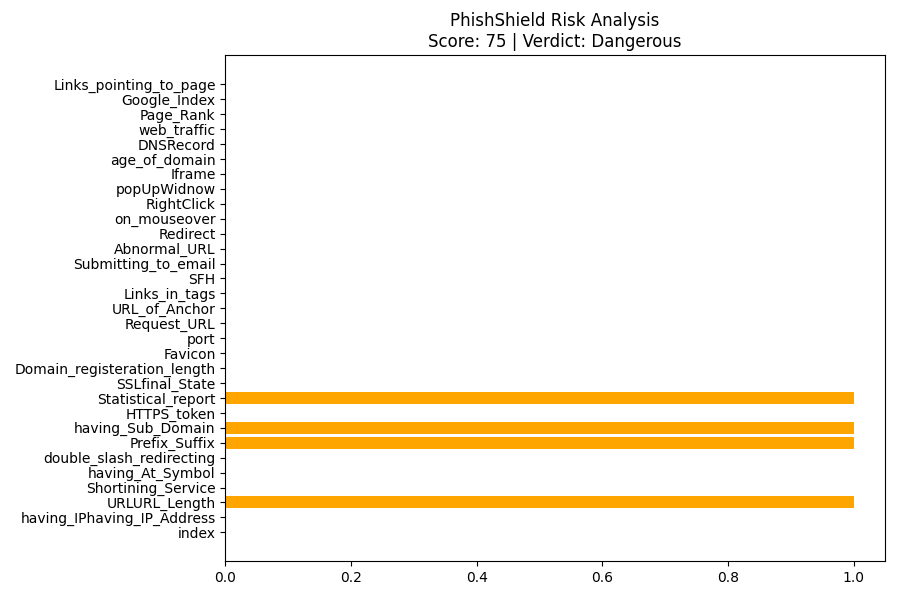
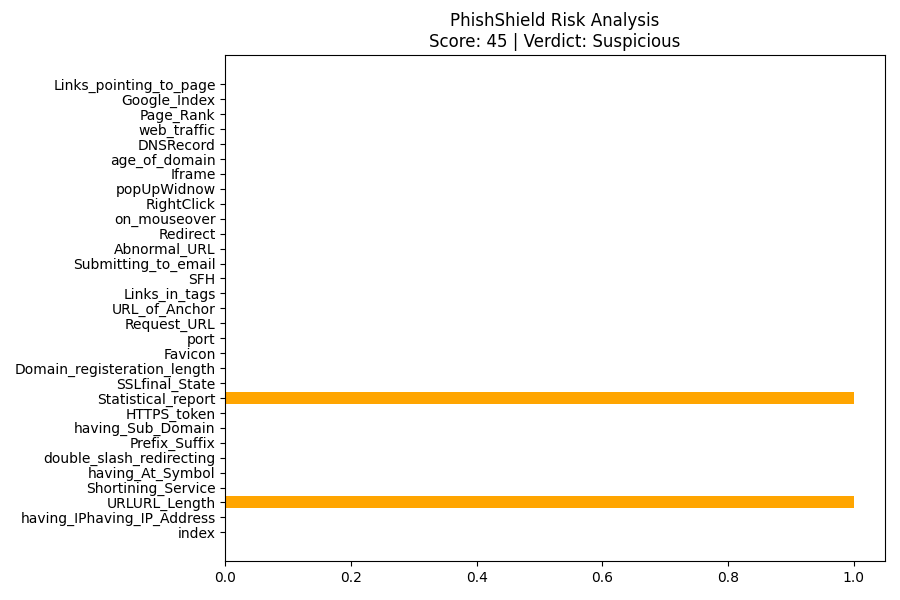
Improved Accuracy of Models, Fixed multi line input error

Changed region(s): [[0.2489, 0.69, 0.9644, 0.75], [0.4667, 0.06, 0.7778, 0.09]]

diff --git a/features.py b/features.py
@@ -109,29 +109,29 @@ def calculate_score(features, ml_prob, input_type):
 
     if input_type == "url":
         # Pure Heuristic Scoring (NO ML)
-        if features['having_IPhaving_IP_Address']: h_score += 25
-        if features['URLURL_Length']: h_score += 10
-        if features['Shortining_Service']: h_score += 15
-        if features['having_At_Symbol']: h_score += 15
-        if features['double_slash_redirecting']: h_score += 10
-        if features['Prefix_Suffix']: h_score += 10
-        if features['having_Sub_Domain']: h_score += 15
-        if not features['HTTPS_token']: h_score += 20
-        if features['Statistical_report']: h_score += 20
+        if features['having_IPhaving_IP_Address']: h_score += 30
+        if features['URLURL_Length']: h_score += 5
+        if features['Shortining_Service']: h_score += 20
+        if features['having_At_Symbol']: h_score += 10
+        if features['double_slash_redirecting']: h_score += 15
+        if features['Prefix_Suffix']: h_score += 15
+        if features['having_Sub_Domain']: h_score += 20
+        if not features['HTTPS_token']: h_score += 30
+        if features['Statistical_report']: h_score += 10
 
         final_score = h_score
 
     else:
         # EMAIL = ML + heuristics
         if features['urgent_words']: h_score += 20
-        if features['phishing_words']: h_score += 20
-        if features['exclamation_count'] > 2: h_score += 10
-        if features['contains_html']: h_score += 15
-        if features['link_count'] > 2: h_score += 10
-        if features['sentiment'] < -0.3: h_score += 10
+        if features['phishing_words']: h_score += 25
+        if features['exclamation_count'] > 2: h_score += 15
+        if features['contains_html']: h_score += 20
+        if features['link_count'] > 2: h_score += 15
+        if features['sentiment'] < -0.3: h_score += 35
 
         h_score = min(h_score, 100)
-        final_score = (0.6 * ml_prob * 100) + (0.4 * h_score)
+        final_score = (0.8 * ml_prob * 100) - (0.2 * h_score)
 
     # Verdict
     if final_score < 30:

diff --git a/main.py b/main.py
@@ -12,7 +12,18 @@ def main():
     print("   AI-Powered Phishing Detection Tool   ")
     print("========================================\n")
 
-    user_input = input("Enter a URL or an Email text:\n\n> ")
+    #User Input """Fixes User's Multiline input for email"""
+    
+    print("Enter email text (press ENTER twice to finish):")
+    lines = []
+    while True:
+        line = input()
+        if line == "":                  
+            break
+        lines.append(line)
+
+    user_input = "\n".join(lines)
+
 
     # Decide if input is URL or Email
     if "http://" in user_input or "https://" in user_input or "www" in user_input:
